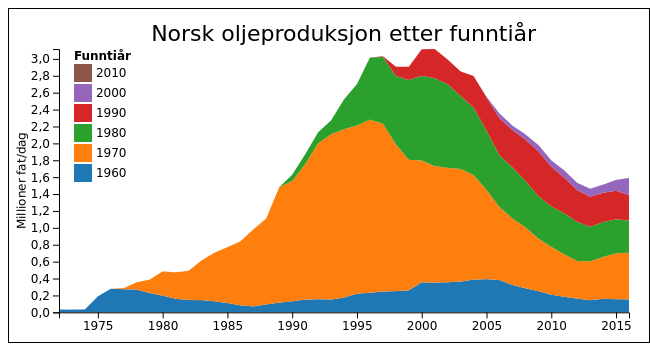
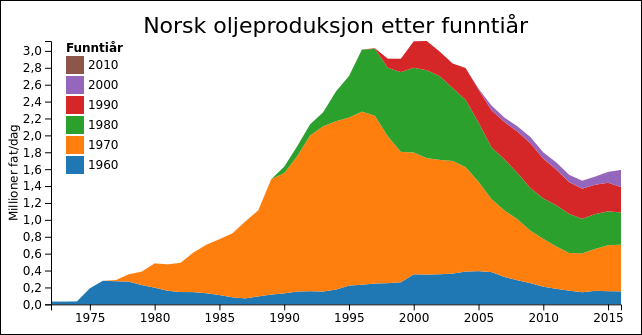
Try to crop those images properly

diff --git a/vis/entry.js b/vis/entry.js
@@ -17,8 +17,7 @@ function show_resource(resource, group, unit, file) {
 
     var svg = d3.select('body').append('svg')
         .attr('width', 960 / 1.5)
-        .attr('height', 500 / 1.5)
-        .style('border', "1px solid #000000");
+        .attr('height', 500 / 1.5);
 
     var margin = { top: 40, right: 20, bottom: 30, left: 50 },
         width = +svg.attr("width") - margin.left - margin.right,

diff --git a/vis/style.css b/vis/style.css
@@ -1,5 +1,6 @@
 body {
     background: white;
+    margin: 0;
 }
 
 text {
@@ -8,4 +9,8 @@ text {
 
 .heading {
     font: 22px sans-serif;
+}
+
+svg {
+    border: 1px solid #000;
 }
